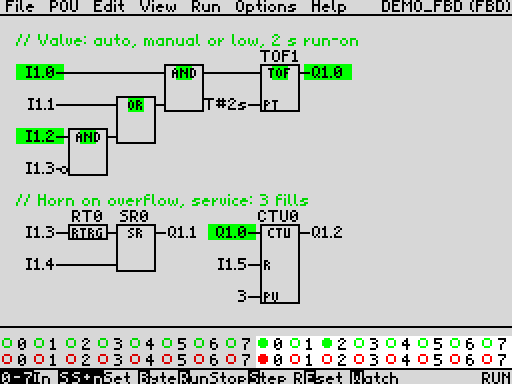
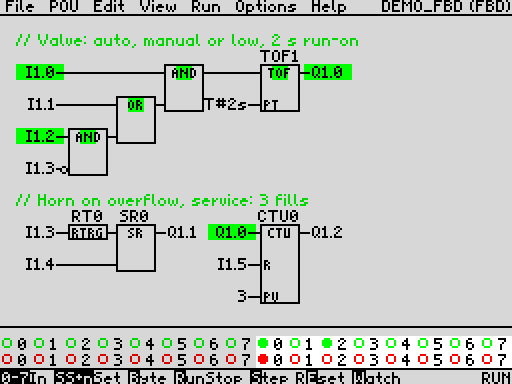
Status bar: inverted runs (ST_INV ... ST_INV): 0-7 and SS+n in one box; spaces back in the hints

Changed region(s): [[0.0312, 0.9375, 0.7812, 1.0]]

diff --git a/CLAUDE.md b/CLAUDE.md
@@ -211,7 +211,7 @@ editor and key for users.
   - The status bar has two parts: `status_left` with the `st_left` text, and `status_right` (from cell
     `st_rcol`, reset by `screen_begin`; the simulation moves it right for its key hints). Each redraws
     only when its text changes. `st_left` markers: ST_SYM/ST_SYME = inverted symbol name,
-    ST_TAB = column, ST_INV = the next char only inverted (key hints of the simulation). The simulation hints must fit left of cell SM_RCOL (26) and differ per page
+    ST_TAB = column, ST_INV = start / end of an inverted key letter (key hints of the simulation). The simulation hints must fit left of cell SM_RCOL (26) and differ per page
     (program / watch: T Trend / trend: W Watch).
   - Menu tables (src/menu.asm): `command, hotkey, label`. The hotkey is not shown; it must match the
     item name (normally its first letter; the user rejected unrelated letters). The open drop-down takes
